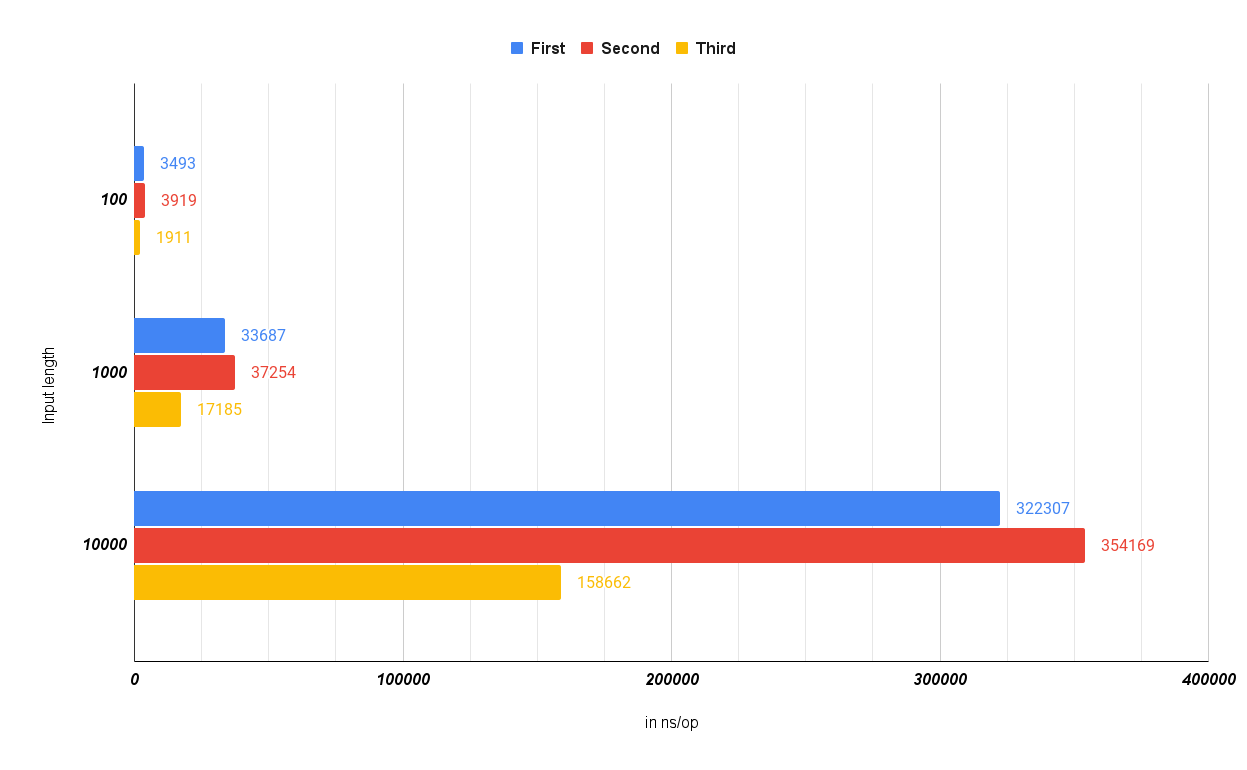
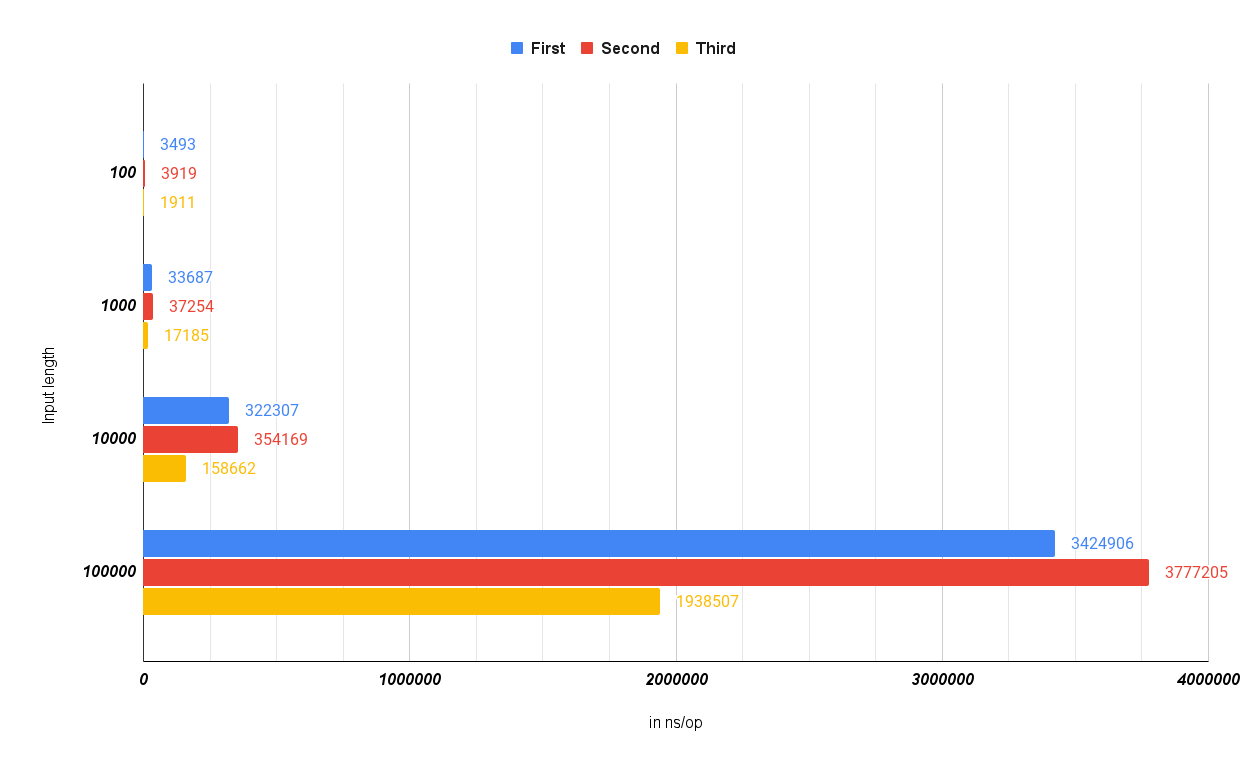
feat: add one more benchmark amount

diff --git a/content/posts/2023/leetcode-optimization.md b/content/posts/2023/leetcode-optimization.md
@@ -12,10 +12,10 @@ tags:
 While i dislike the whole idea around grinding leetcode puzzles as much as possible,
 i still like the challenge of thinking about a problem and correcting the implementation with a [TDD](https://en.wikipedia.org/wiki/Test-driven_development) approach.
 
-The third approach runs with 0ms runtime and 2.1MB memory usage, this beats 100% and 80% of all solutions, [source](https://leetcode.com/problems/replace-all-s-to-avoid-consecutive-repeating-characters/submissions/948070040/).
+The third implementation runs with 0ms runtime and 2.1MB memory usage, this beats 100% and 80% of all solutions, [source](https://leetcode.com/problems/replace-all-s-to-avoid-consecutive-repeating-characters/submissions/948070040/).
 {{</callout>}}
 
-This article highlights three different approaches to solving the puzzle [1576](https://leetcode.com/problems/replace-all-s-to-avoid-consecutive-repeating-characters/) while explaining common performance issues in go applications.
+This article highlights three different approaches to solving the puzzle [1576](https://leetcode.com/problems/replace-all-s-to-avoid-consecutive-repeating-characters/).
 
 The puzzle is fairly easy, the expected input is a string made up of lowercase alphabetical characters, as well as containing a question mark (`?`). This character should be replaced with an alphabetical character and should not be repeated consecutively.
 
@@ -303,7 +303,7 @@ We have some obvious performance issues in this version of the code:
 
 ## Third implementation
 
-The third and heavly optimized version decreases the time taken for every operation by a factor of 2.
+The third and heavly optimized version decreases the time taken for every operation by a factor of 2 compared to the first implementation.
 
 ```go
 func modifyStringThird(s string) string {
@@ -391,22 +391,26 @@ go test ./... -bench=.
 # goarch: amd64
 # pkg: leetcode
 # cpu: AMD Ryzen 7 3700X 8-Core Processor
-# BenchmarkFirst/size10-16                 2190549               549.3 ns/op
-# BenchmarkFirst/size100-16                 339276              3493 ns/op
-# BenchmarkFirst/size1000-16                 35902             33687 ns/op
-# BenchmarkFirst/size10000-16                 3735            322307 ns/op
+# BenchmarkFirst/size10-16                 2185942               547.2 ns/op
+# BenchmarkFirst/size100-16                 337184              3487 ns/op
+# BenchmarkFirst/size1000-16                 35896             33587 ns/op
+# BenchmarkFirst/size10000-16                 3548            322588 ns/op
+# BenchmarkFirst/size100000-16                 352           3424906 ns/op
 
-# BenchmarkSecond/size10-16                2002407               598.8 ns/op
-# BenchmarkSecond/size100-16                299724              3919 ns/op
-# BenchmarkSecond/size1000-16                31893             37254 ns/op
-# BenchmarkSecond/size10000-16                3342            354169 ns/op
+# BenchmarkSecond/size10-16                1998387               601.3 ns/op
+# BenchmarkSecond/size100-16                298550              3909 ns/op
+# BenchmarkSecond/size1000-16                32400             37335 ns/op
+# BenchmarkSecond/size10000-16                3280            356697 ns/op
+# BenchmarkSecond/size100000-16                318           3777205 ns/op
 
-# BenchmarkThird/size10-16                 3057144               391.4 ns/op
-# BenchmarkThird/size100-16                 594561              1911 ns/op
-# BenchmarkThird/size1000-16                 74427             17185 ns/op
-# BenchmarkThird/size10000-16                 7581            158662 ns/op
+# BenchmarkThird/size10-16                 3076419               393.0 ns/op
+# BenchmarkThird/size100-16                 576669              1978 ns/op
+# BenchmarkThird/size1000-16                 64304             18599 ns/op
+# BenchmarkThird/size10000-16                 7867            156845 ns/op
+# BenchmarkThird/size100000-16                 636           1938507 ns/op
+
 # PASS
-# ok      leetcode        16.998s
+# ok      leetcode        21.463s
 ```
 
 Comparing the output shows us that the second implementation is a bit slower than the first and the third implementation is around 2x faster than the first implementation:
